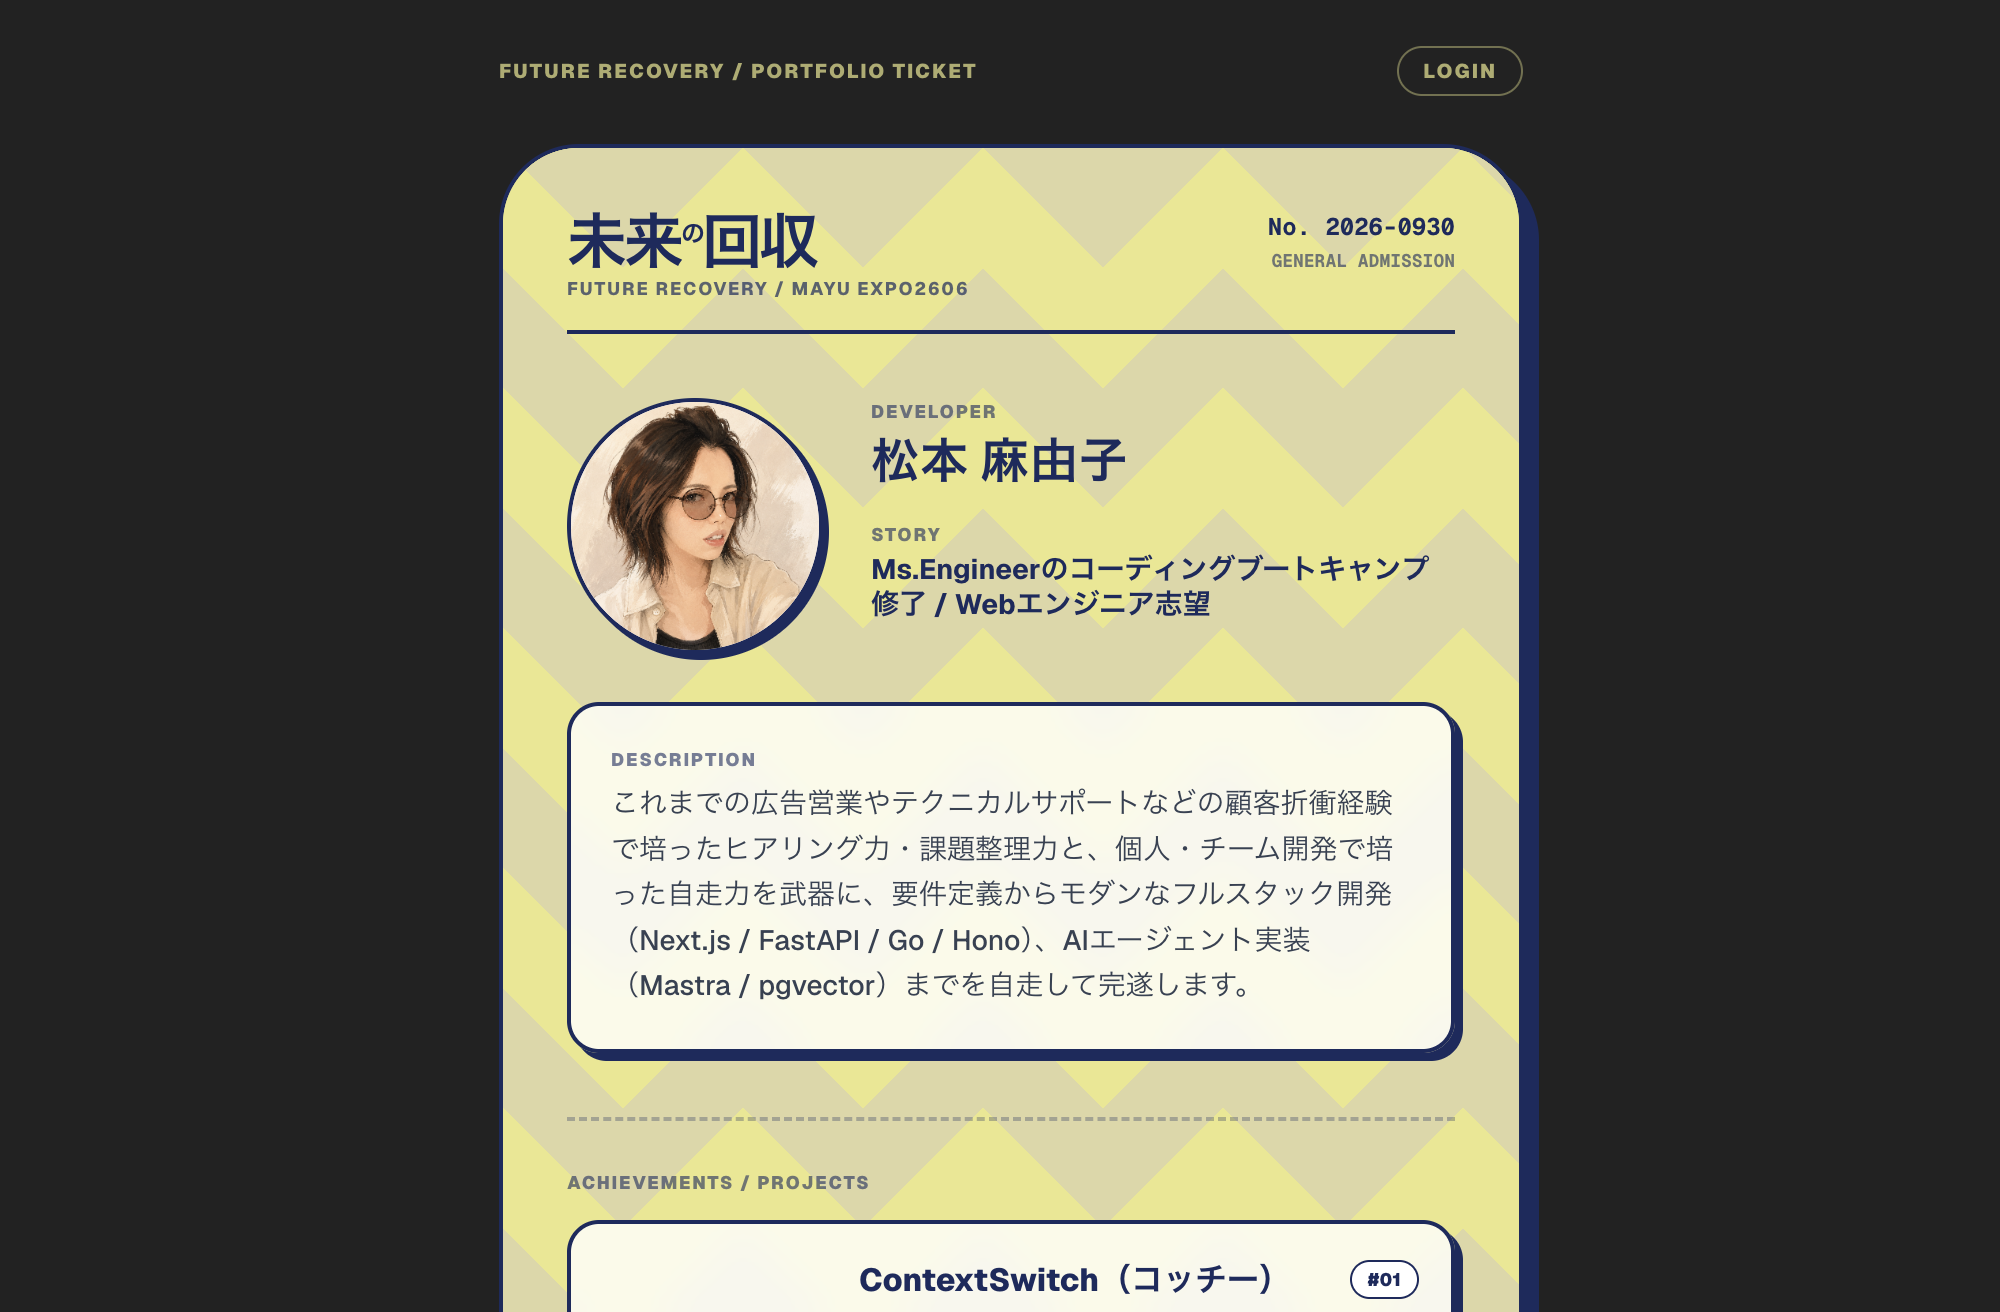
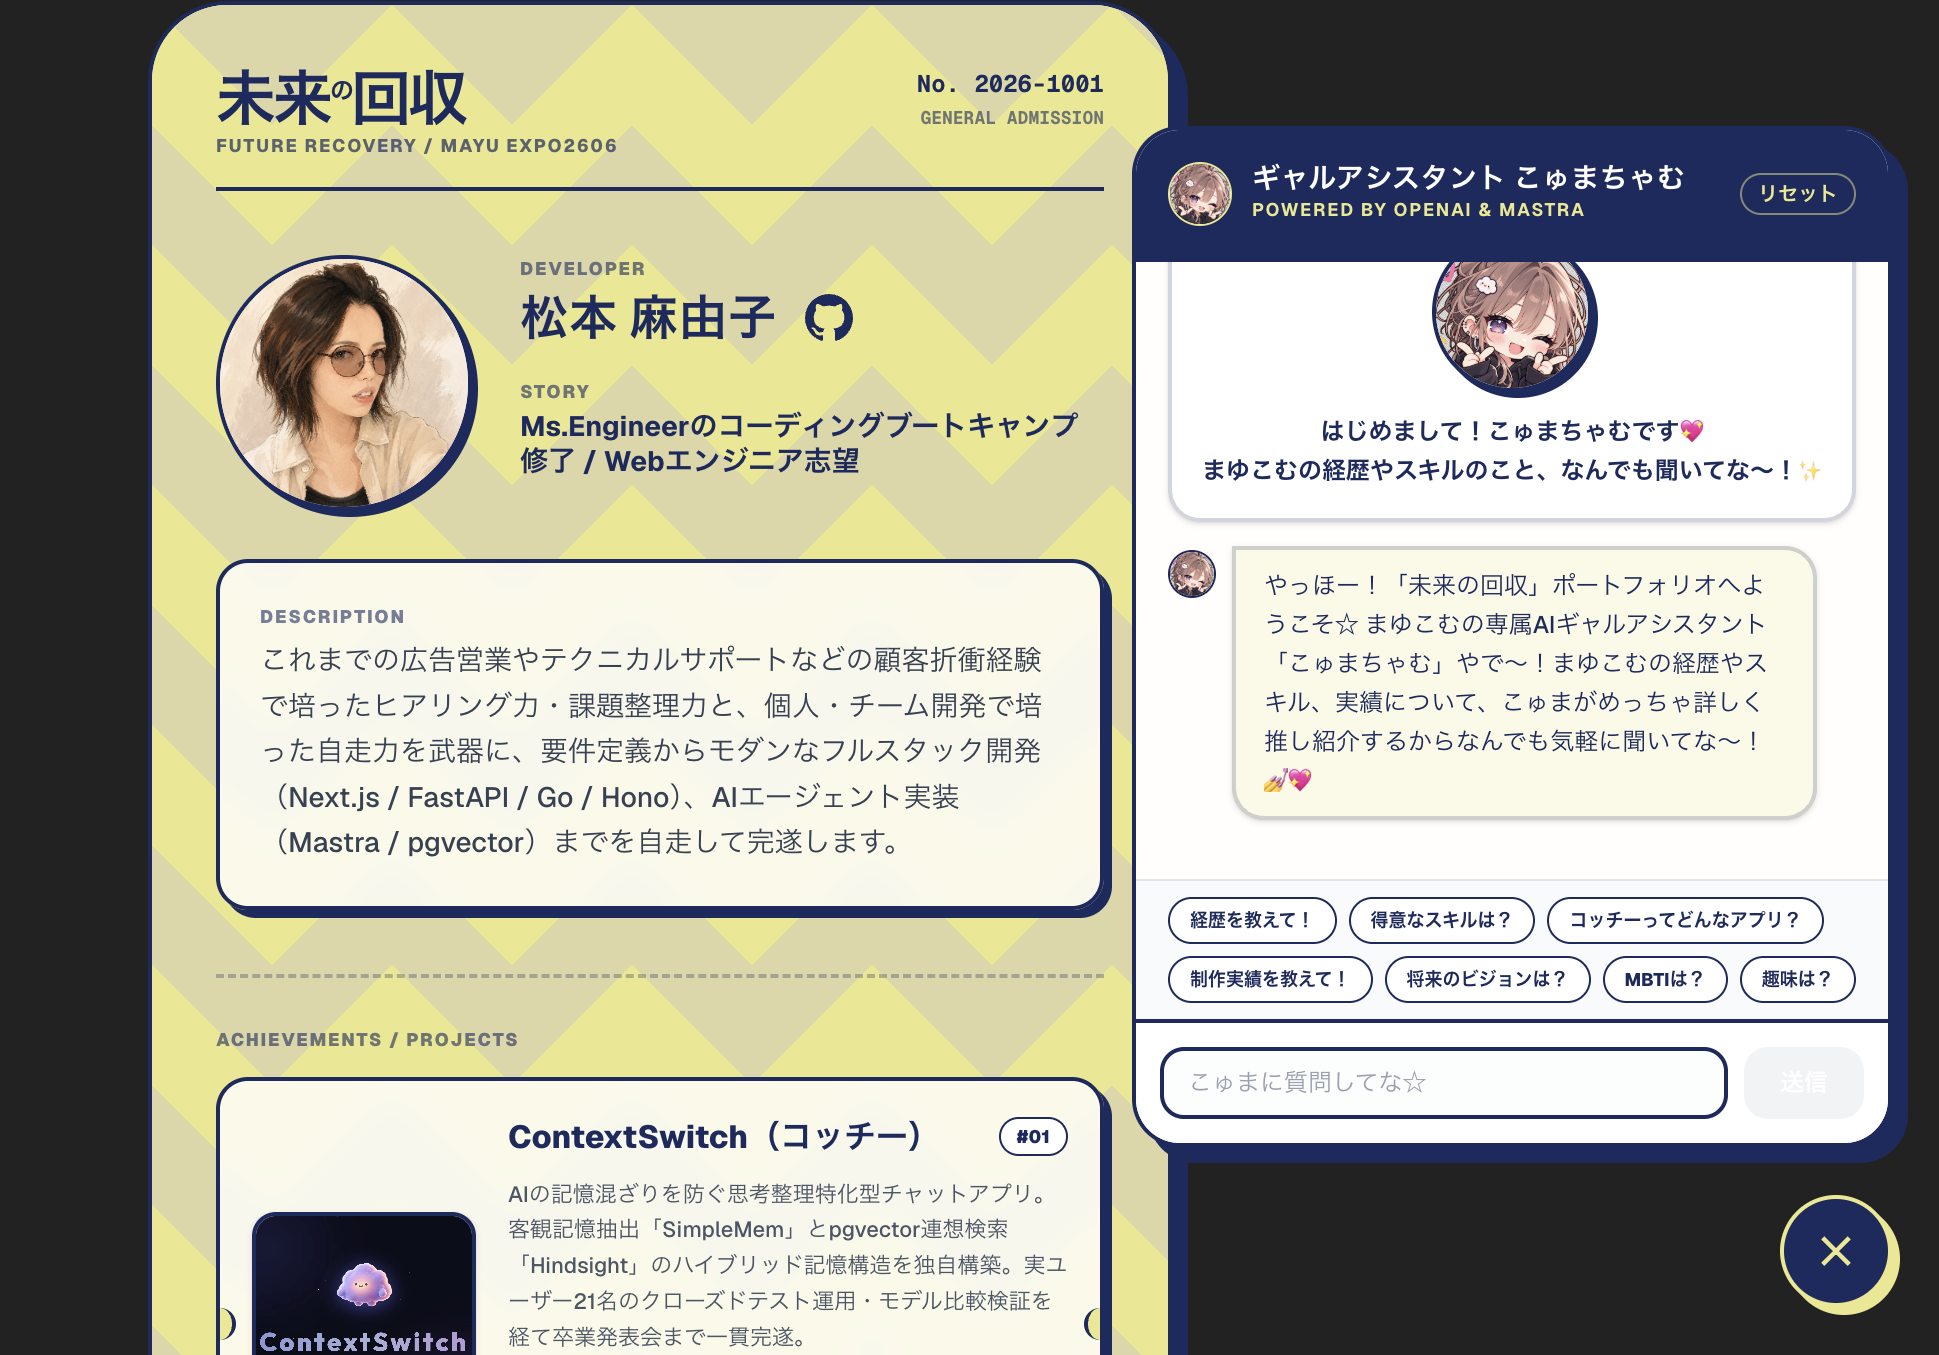
feat: enhance こゅまちゃむ AI chat widget UI, add speech bubble, update portfolio achievement text & image

diff --git a/frontend/src/components/features/ChatWidget.tsx b/frontend/src/components/features/ChatWidget.tsx
@@ -40,26 +40,51 @@ export const ChatWidget: React.FC = () => {
   ];
 
   return (
-    <div className="fixed bottom-6 right-6 z-50 font-sans">
+    <div className="fixed bottom-4 right-4 sm:bottom-6 sm:right-6 z-50 font-sans flex flex-col items-end">
+      {/* 開いていない時に表示する可愛い吹き出し (Tooltip Bubble) */}
+      {!isOpen && (
+        <div 
+          onClick={() => setIsOpen(true)}
+          className="mb-3 animate-bounce cursor-pointer group flex flex-col items-end select-none"
+        >
+          <div className="bg-white border-2 border-[#1B2A5E] text-[#1B2A5E] px-3 py-2 rounded-2xl shadow-[4px_4px_0px_0px_#1B2A5E] flex items-center gap-2 transition-transform group-hover:scale-105">
+            <span className="text-xs font-black tracking-wide flex items-center gap-1.5 whitespace-nowrap">
+              <span className="bg-[#1B2A5E] text-[#EBE78B] text-[9px] font-black px-1.5 py-0.5 rounded-md border border-[#EBE78B]">
+                AI BOT
+              </span>
+              💬 こゅまちゃむに質問してな☆
+            </span>
+          </div>
+          {/* 吹き出しの三角しっぽ */}
+          <div className="w-0 h-0 border-l-[8px] border-l-transparent border-r-[8px] border-r-transparent border-t-[8px] border-t-[#1B2A5E] mr-6 -mt-[1px]"></div>
+        </div>
+      )}
+
       {/* フローティングボタン (開閉用) */}
       <button
         onClick={() => setIsOpen(!isOpen)}
-        className="w-14 h-14 rounded-full bg-[#1B2A5E] text-[#EBE78B] flex items-center justify-center border-2 border-[#EBE78B] shadow-[4px_4px_0px_0px_#EBE78B] hover:scale-105 active:scale-95 transition-all cursor-pointer relative overflow-hidden"
+        className="w-16 h-16 sm:w-20 sm:h-20 rounded-full bg-white text-[#1B2A5E] flex items-center justify-center border-3 border-[#1B2A5E] shadow-[6px_6px_0px_0px_#1B2A5E] ring-4 ring-[#EBE78B] hover:scale-105 active:scale-95 transition-all cursor-pointer relative overflow-hidden group"
         aria-label="チャットを開く"
       >
         {isOpen ? (
-          <span className="text-xl font-bold select-none">✕</span>
+          <span className="text-2xl font-bold select-none bg-[#1B2A5E] text-[#EBE78B] w-full h-full flex items-center justify-center">✕</span>
         ) : (
-          <img
-            src="/kolyuma-cham.png"
-            alt="こゅまちゃむ"
-            className="w-full h-full object-cover select-none"
-          />
+          <div className="relative w-full h-full">
+            <img
+              src="/kolyuma-cham.png"
+              alt="こゅまちゃむ"
+              className="w-full h-full object-cover select-none"
+            />
+            {/* AIバッジ (ボタン下部) */}
+            <div className="absolute bottom-0 inset-x-0 bg-[#1B2A5E] text-[#EBE78B] text-[8px] sm:text-[9px] font-black py-0.5 text-center border-t border-[#EBE78B] uppercase tracking-wider">
+              AI CHAT
+            </div>
+          </div>
         )}
         {!isOpen && (
-          <span className="absolute -top-1 -right-1 flex h-3 w-3">
+          <span className="absolute top-1 right-1 flex h-3.5 w-3.5">
             <span className="animate-ping absolute inline-flex h-full w-full rounded-full bg-red-400 opacity-75"></span>
-            <span className="relative inline-flex rounded-full h-3 w-3 bg-red-500"></span>
+            <span className="relative inline-flex rounded-full h-3.5 w-3.5 bg-red-500 border border-white"></span>
           </span>
         )}
       </button>

diff --git a/frontend/src/app/page.tsx b/frontend/src/app/page.tsx
@@ -49,10 +49,10 @@ const fallbackAchievements: Achievement[] = [
   },
   {
     id: 4,
-    title: "認証機能付きポートフォリオサイト",
-    description: "Firebase Authenticationを用いたセキュアな認可チェックと、RAG自己紹介チャットボットを搭載したフルスタック・モノレポ構成のポートフォリオサイト（本作）。",
-    tech_stack: "Next.js, FastAPI, Mastra, PostgreSQL, SQLAlchemy, Alembic, Docker, AWS, Firebase",
-    image_url: "/portfolio-image.png",
+    title: '専属AIギャル「こゅまちゃむ」搭載 Webポートフォリオ',
+    description: 'Mastra × OpenAI API を活用した専属AIギャルアシスタント「こゅまちゃむ」が訪問者を楽しく出迎えるインタラクティブ・ポートフォリオ。プロフィールデータをコンテキスト注入（RAG構造）し、自然な会話で経歴・スキルを紹介。FastAPI + PostgreSQL + Next.js (App Router) によるモダンモノレポ構成。',
+    tech_stack: 'Next.js 15, FastAPI, Mastra (AI Agent), OpenAI API, PostgreSQL, Docker, AWS, Firebase Auth, Tailwind CSS',
+    image_url: '/portfolio-app.png',
     image_id: 4,
     order: 4,
   },

diff --git a/backend/src/seed.py b/backend/src/seed.py
@@ -77,9 +77,9 @@ def seed_db():
             order=3
         )
         ach4 = Achievement(
-            title="認証機能付きポートフォリオサイト",
-            description="Firebase Authenticationを用いたセキュアな認可チェックと、RAG自己紹介チャットボットを搭載したフルスタック・モノレポ構成のポートフォリオサイト（本作）。",
-            tech_stack="Next.js, FastAPI, Mastra, PostgreSQL, SQLAlchemy, Alembic, Docker, AWS, Firebase",
+            title="専属AIギャル「こゅまちゃむ」搭載 Webポートフォリオ",
+            description="Mastra × OpenAI API を活用した専属AIギャルアシスタント「こゅまちゃむ」が訪問者を楽しく出迎えるインタラクティブ・ポートフォリオ。プロフィールデータをコンテキスト注入（RAG構造）し、自然な会話で経歴・スキルを紹介。FastAPI + PostgreSQL + Next.js (App Router) によるモダンモノレポ構成。",
+            tech_stack="Next.js 15, FastAPI, Mastra (AI Agent), OpenAI API, PostgreSQL, Docker, AWS, Firebase Auth, Tailwind CSS",
             image_id=portfolio_img_id,
             order=4
         )
